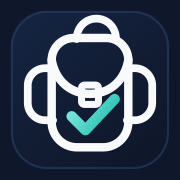
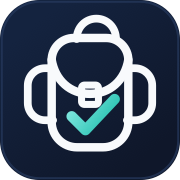
newicon_2

diff --git a/sw.js b/sw.js
@@ -1,4 +1,4 @@
-const APP_VERSION = "prepilot-2026-05-20-backpack-icon";
+const APP_VERSION = "prepilot-2026-05-20-icon-bg-cleanup";
 const CACHE_NAME = `ready-${APP_VERSION}`;
 const CORE_ASSETS = [
   "./",
